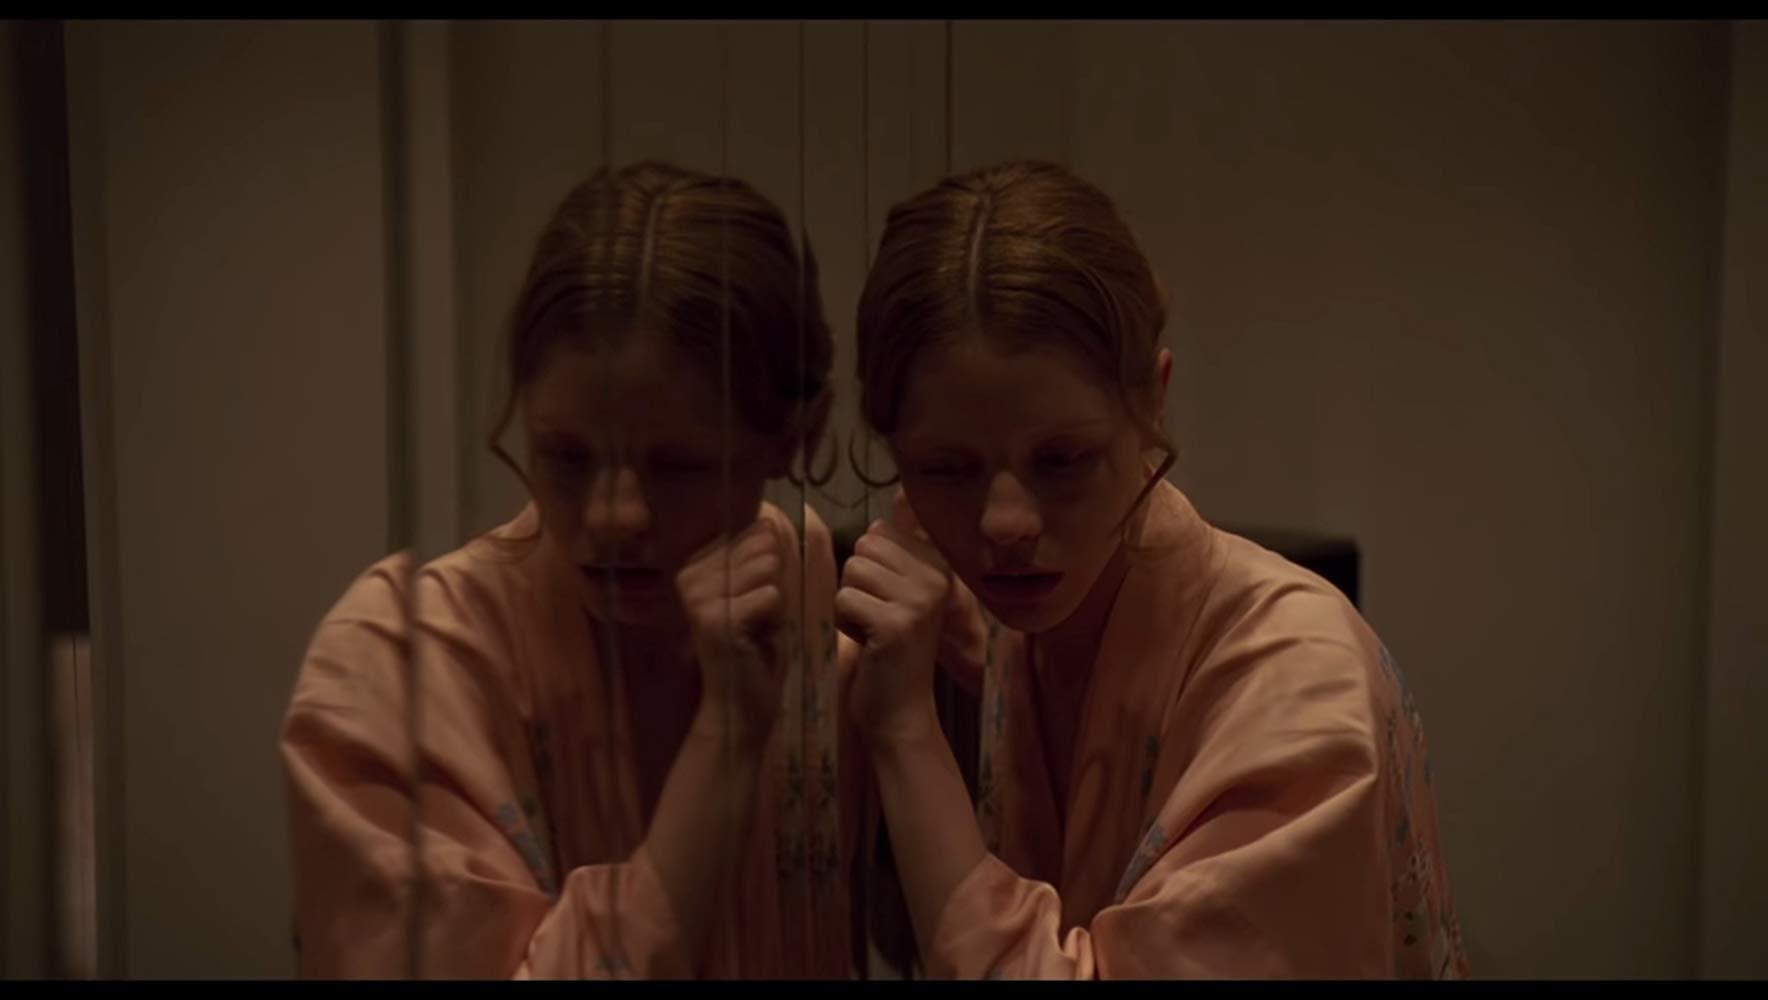
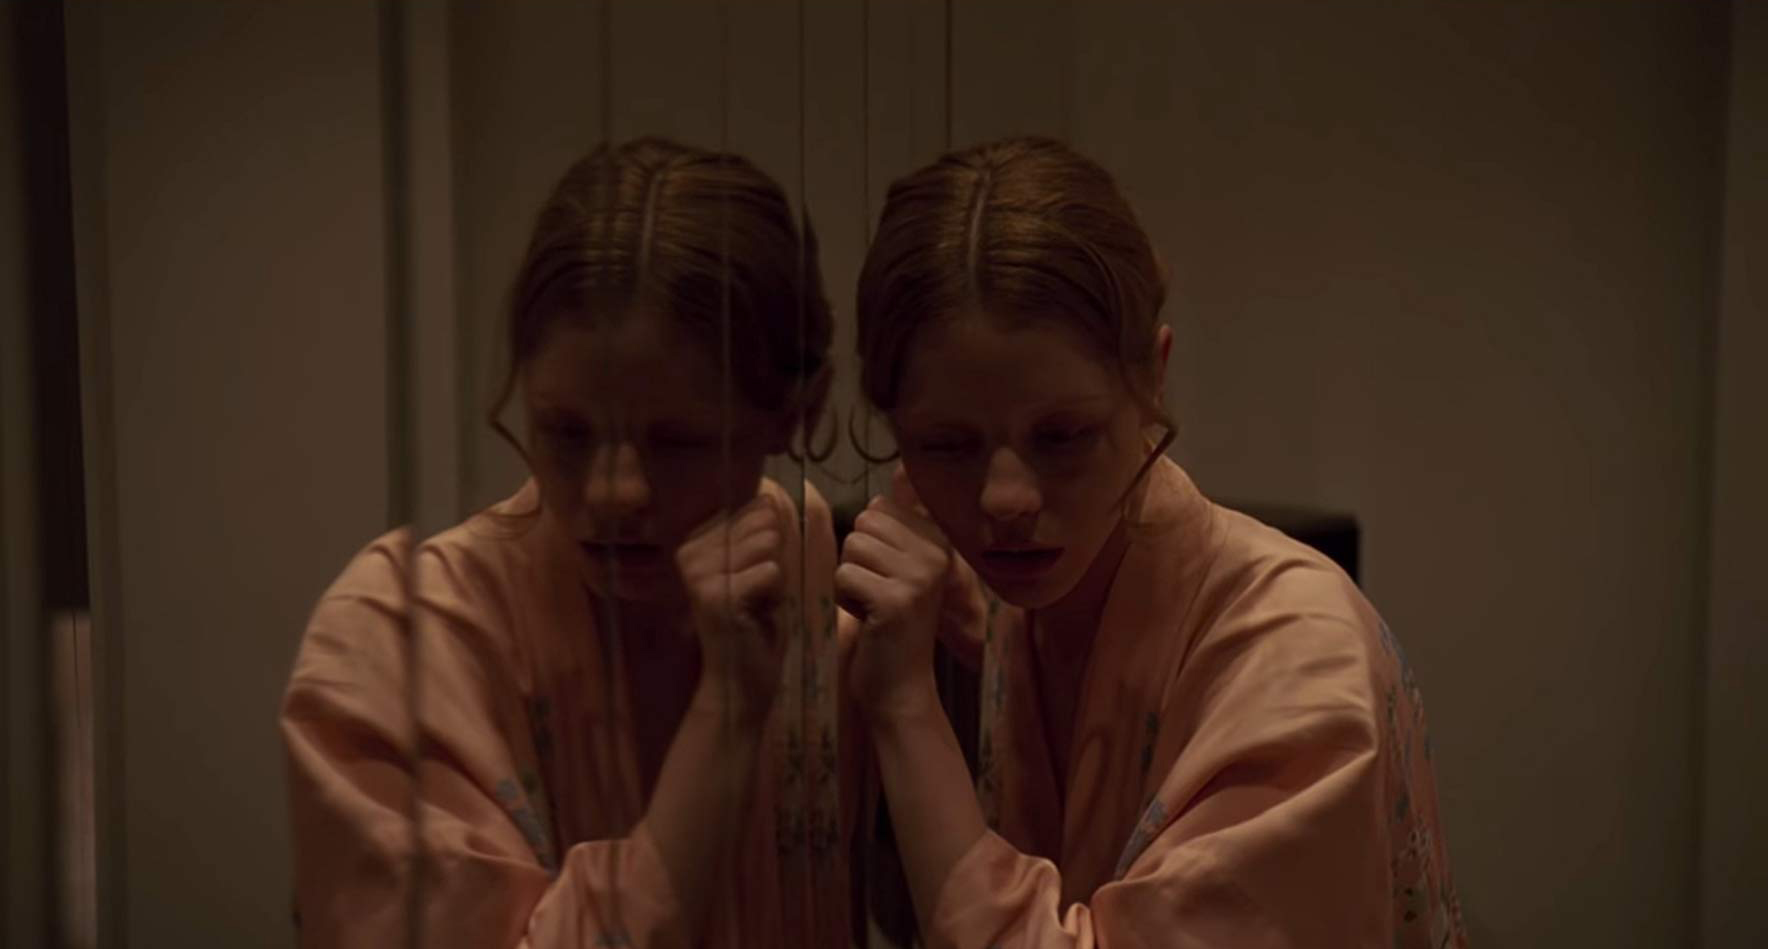
modifiqué espaciados contenido y recorté img sarah-mirror

diff --git a/css/main.css b/css/main.css
@@ -155,7 +155,7 @@ h6 {
 }
 
 .credits {
-  margin: 20vh auto 20vh auto;
+  margin: 10vh auto 10vh auto;
   padding: 1em;
   border: 5px solid #0A0605;
   background-color: #FFFFFF;
@@ -216,6 +216,9 @@ h6 {
     -ms-grid-column: 2;
     grid-area: c;
     width: 48vw;
+  }
+  .credits {
+    margin: 20vh auto 20vh auto;
   }
   .images {
     -ms-grid-row: 1;

diff --git a/scss/layout/_main.scss b/scss/layout/_main.scss
@@ -26,7 +26,7 @@
 }
 
 .credits {
-    margin: 20vh auto 20vh auto;
+    margin: 10vh auto 10vh auto;
     padding: 1em;
     border: 5px solid $black;
     background-color: $white;
@@ -84,6 +84,10 @@
     .content {
         grid-area: c;
         width: 48vw;
+    }
+
+    .credits {
+        margin: 20vh auto 20vh auto;
     }
 
     .images {
